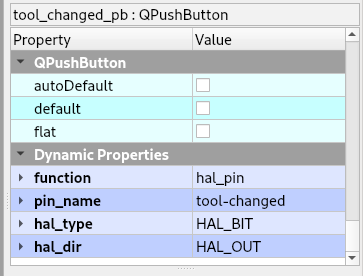
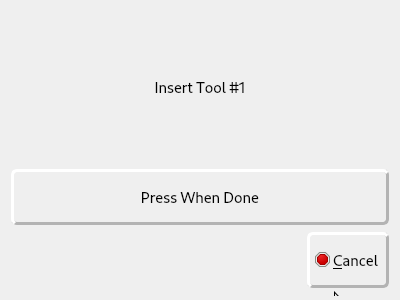
add improved manual tool change

diff --git a/flexgui/src/libflexgui/tool_change.py b/flexgui/src/libflexgui/tool_change.py
@@ -1,0 +1,34 @@
+import sys, os
+
+import hal
+
+from PyQt6.QtWidgets import QDialog
+from PyQt6.uic import loadUi
+
+class app(QDialog):
+	def __init__(self):
+		super().__init__()
+		
+		self.path = os.path.dirname(os.path.realpath(sys.argv[0]))
+		# set the library path
+		if self.path == '/usr/bin':
+			self.lib_path = '/usr/lib/libflexgui'
+			self.gui_path = '/usr/lib/libflexgui'
+		else:
+			self.lib_path = os.path.join(self.path, 'libflexgui')
+			self.gui_path = self.path
+
+		tc_ui_path = os.path.join(self.gui_path, 'tool_change.ui')
+		loadUi(tc_ui_path, self)
+		tool = hal.get_value('iocontrol.0.tool-prep-number')
+		if tool:
+			self.tool_change_lb.setText(f'Insert Tool #{tool}')
+		else:
+			self.tool_change_lb.setText(f'Remove Tool From Spindle')
+		self.tool_change_done.released.connect(self.tool_loaded)
+
+	def tool_loaded(self):
+		hal.set_p('iocontrol.0.tool-changed','true')
+		self.close()
+
+

diff --git a/flexgui/src/libflexgui/startup.py b/flexgui/src/libflexgui/startup.py
@@ -1254,11 +1254,11 @@ def setup_tools(parent):
 					dialogs.warn_msg_ok(msg, 'Source Name Error')
 
 	# manual tool change
-	if 'tool_changed_pb' in parent.children:
-		#parent.tool_changed_pb.setEnabled(False)
-		parent.tool_changed_pb.setCheckable(True)
-		parent.tool_changed_pb.setText('No Tool')
-		parent.tool_changed_pb.clicked.connect(partial(commands.tool_changed, parent))
+	#if 'tool_changed_pb' in parent.children:
+	#	#parent.tool_changed_pb.setEnabled(False)
+	#	parent.tool_changed_pb.setCheckable(True)
+	#	parent.tool_changed_pb.setText('No Tool')
+	#	parent.tool_changed_pb.clicked.connect(partial(commands.tool_changed, parent))
 
 def setup_sliders(parent):
 	if 'feed_override_sl' in parent.children:
@@ -1886,6 +1886,26 @@ def setup_hal(parent):
 	parent.halcomp.ready()
 	if 'hal_comp_name_lb' in parent.children:
 		parent.hal_comp_name_lb.setText(f'{parent.halcomp}')
+
+def setup_tool_change(parent):
+	if parent.manual_tool_change:
+		parent.toolcomp.newpin('number', hal.HAL_S32, hal.HAL_IN)
+		parent.toolcomp.newpin('change', hal.HAL_BIT, hal.HAL_IN)
+		parent.toolcomp.newpin('changed', hal.HAL_BIT, hal.HAL_OUT)
+		parent.toolcomp.ready()
+		parent.tool_change = hal.get_value('tool-change.change')
+
+		hal.new_sig('tool-prepare-loopback',hal.HAL_BIT)
+		hal.connect('iocontrol.0.tool-prepare','tool-prepare-loopback')
+		hal.connect('iocontrol.0.tool-prepared','tool-prepare-loopback')
+
+		hal.new_sig('tool-number',hal.HAL_S32)
+		hal.connect('iocontrol.0.tool-prep-number','tool-number')
+		hal.connect('tool-change.number','tool-number')
+
+		hal.new_sig('tool-change',hal.HAL_BIT)
+		hal.connect('iocontrol.0.tool-change','tool-change')
+		hal.connect('tool-change.change','tool-change')
 
 def setup_plot(parent):
 	if 'plot_widget' in parent.children:

diff --git a/flexgui/src/libflexgui/status.py b/flexgui/src/libflexgui/status.py
@@ -7,6 +7,7 @@ import linuxcnc as emc
 import hal
 
 from libflexgui import utilities
+from libflexgui import dialogs
 
 '''
 STATE_ESTOP
@@ -36,7 +37,7 @@ STATES = {1: 'RCS_DONE', 2: 'RCS_EXEC', 3: 'RCS_ERROR'}
 def update(parent):
 	parent.status.poll()
 
-	# **************************
+	# **** TASK STATE ****
 	# task_state STATE_ESTOP, STATE_ESTOP_RESET, STATE_ON, STATE_OFF
 	if parent.task_state != parent.status.task_state:
 		#print(f'TASK STATE: {TASK_STATES[parent.status.task_state]}')
@@ -94,7 +95,7 @@ def update(parent):
 
 		parent.task_state = parent.status.task_state
 
-	# **************************
+	# **** MOTION MODE ****
 	# motion_mode TRAJ_MODE_COORD, TRAJ_MODE_FREE, TRAJ_MODE_TELEOP
 	if parent.motion_mode != parent.status.motion_mode:
 		#print(f'MOTION MODE: {MOTION_MODES[parent.status.motion_mode]}')
@@ -128,7 +129,7 @@ def update(parent):
 
 		parent.motion_mode = parent.status.motion_mode
 
-	# **************************
+	# ****  ****
 	# interp_state INTERP_IDLE, INTERP_READING, INTERP_PAUSED, INTERP_WAITING
 	if parent.interp_state != parent.status.interp_state:
 		#print(f'INTERP STATE: {INTERP_STATES[parent.status.interp_state]}')
@@ -171,7 +172,7 @@ def update(parent):
 
 		parent.interp_state = parent.status.interp_state
 
-	# **************************
+	# **** TASK MODE ****
 	# task_mode MODE_MDI, MODE_AUTO, MODE_MANUAL
 	if parent.task_mode != parent.status.task_mode:
 		#print(f'TASK MODE: {TASK_MODES[parent.status.task_mode]}')
@@ -209,7 +210,7 @@ def update(parent):
 
 		parent.task_mode = parent.status.task_mode
 
-	# **************************
+	# **** EXEC STATE ****
 	#exec_state EXEC_ERROR, EXEC_DONE, EXEC_WAITING_FOR_MOTION,
 	#EXEC_WAITING_FOR_MOTION_QUEUE, EXEC_WAITING_FOR_IO,
 	#EXEC_WAITING_FOR_MOTION_AND_IO, EXEC_WAITING_FOR_DELAY,
@@ -218,7 +219,16 @@ def update(parent):
 		#print(f'EXEC STATE: {EXEC_STATES[parent.status.exec_state]}')
 		parent.exec_state = parent.status.exec_state
 
-	# ************************** FLOOD_OFF or FLOOD_ON
+	# **** TOOL CHANGE ****
+	if parent.manual_tool_change:
+		if parent.tool_change != hal.get_value('tool-change.change'):
+			if hal.get_value('iocontrol.0.tool-changed'):
+				hal.set_p('iocontrol.0.tool-changed','false')
+			else:
+				dialogs.manual_tool_change(parent)
+			parent.tool_change = hal.get_value('tool-change.change')
+
+	# **** FLOOD_OFF or FLOOD_ON **** 
 	if parent.flood_state != parent.status.flood:
 		if 'flood_pb' in parent.children: 
 			if parent.status.flood == emc.FLOOD_OFF:
@@ -227,7 +237,7 @@ def update(parent):
 				parent.flood_pb.setChecked(True)
 		parent.flood_state = parent.status.flood
 
-	# ************************** MIST_OFF or MIST_ON
+	# **** MIST_OFF or MIST_ON ****
 	if parent.mist_state != parent.status.mist:
 		if 'mist_pb' in parent.children: 
 			if parent.status.mist == emc.MIST_OFF:
@@ -236,7 +246,7 @@ def update(parent):
 				parent.mist_pb.setChecked(True)
 		parent.mist_state = parent.status.mist
 
-	# ************************** SPINDLE SPEED SETTINGS
+	# **** SPINDLE SPEED SETTINGS ****
 	if parent.status_speed_setting != parent.status.settings[2]:
 		parent.spindle_speed = int(parent.status.settings[2])
 		if 'spindle_speed_sb' in parent.children:

diff --git a/flexgui/src/libflexgui/dialogs.py b/flexgui/src/libflexgui/dialogs.py
@@ -8,6 +8,7 @@ from PyQt6.QtCore import Qt
 from libflexgui import number_pad
 from libflexgui import gcode_pad
 from libflexgui import keyboard_pad
+from libflexgui import tool_change
 from libflexgui import utilities
 
 def spinbox_numbers(parent, obj):
@@ -42,6 +43,16 @@ def gcode(parent, obj):
 	result = gp.exec()
 	if result:
 		obj.setText(gp.retval())
+
+def manual_tool_change(parent):
+	tc = tool_change.app()
+	stylesheet = os.path.join(parent.lib_path, 'touch.qss')
+	with open(stylesheet,'r') as fh:
+		tc.setStyleSheet(fh.read())
+	result = tc.exec()
+	if result:
+		#print(tc.retval())
+		print(result)
 
 def keyboard(parent, obj):
 	kb = keyboard_pad.keyboard_pad()

diff --git a/flexgui/src/libflexgui/read_ini.py b/flexgui/src/libflexgui/read_ini.py
@@ -82,4 +82,7 @@ def read(parent):
 	else:
 		parent.touch_file_width = False
 
+	parent.manual_tool_change = parent.inifile.find('FLEX', 'MANUAL_TOOL_CHANGE') or False
+	print(f'parent.manual_tool_change {parent.manual_tool_change}')
+
 

diff --git a/docs_flex/source/tools.rst b/docs_flex/source/tools.rst
@@ -50,24 +50,18 @@ The tool number will follow the prefix.
 Manual Tool Change
 ------------------
 
-The manual tool change requires that the iocontrol.0.tool-prepared and the
-iocontrol.0.tool-changed be toggled on after inserting the tool into the
-spindle. A QPushButton with an object name of `tool_changed_pb` can be used in
-place of the hal_manualtoolchange. You need to make it a HAL button and connect
-the output to both iocontrol.0.tool-prepared and iocontrol.0.tool-changed
+All that is needed to add a manual tool change is to add the following to the
+ini file in the [FLEX] section.
 ::
 
-	net manual-tool-changed iocontrol.0.tool-prepared flexhal.tool-changed
-	net manual-tool-changed iocontrol.0.tool-changed
+	[FLEX]
+	MANUAL_TOOL_CHANGE = True
 
 .. image:: /images/tools-06.png
    :align: center
 
-.. note:: You need to hold the button down for about 2 seconds or until you see
-   the tool is changed.
-
 Manual Tool Change requires at least the following HAL code in the main hal
-file if the hal connections are not done as above.
+file if not done as above.
 ::
 
 	# manual tool change